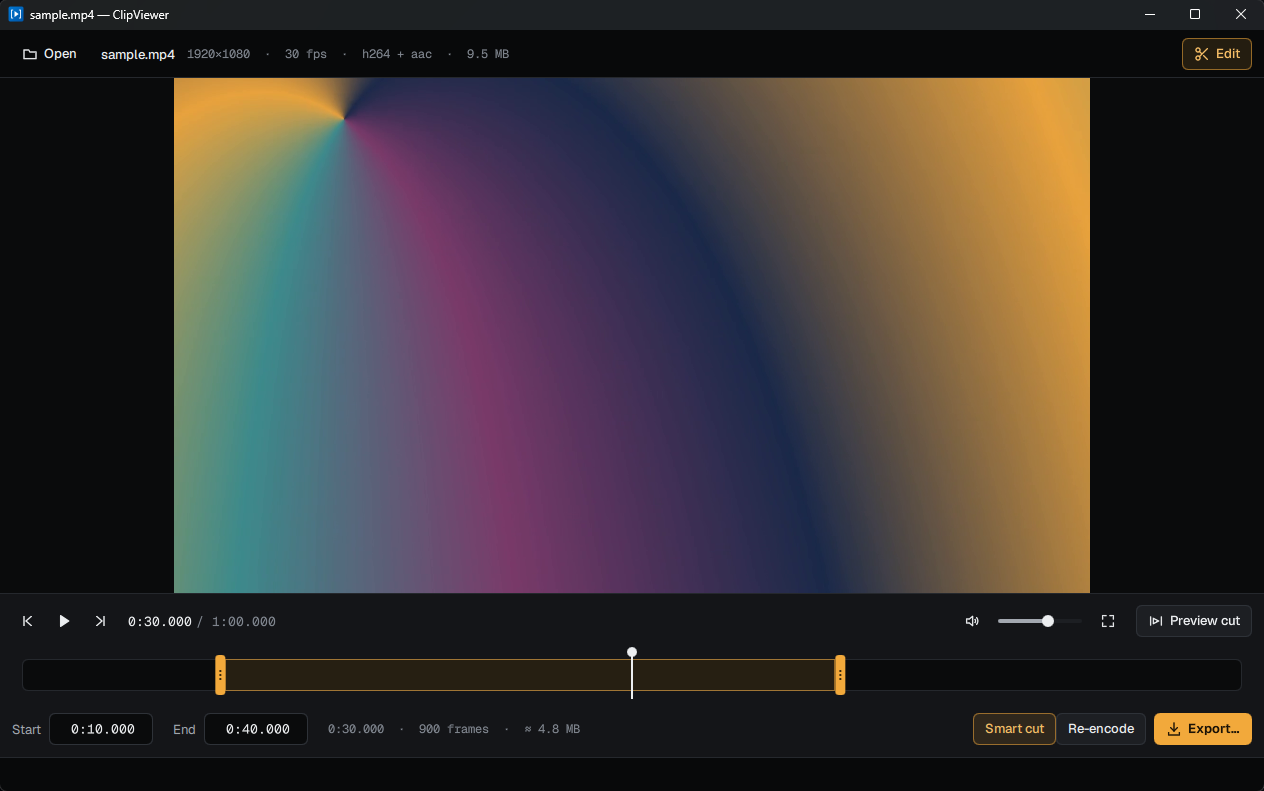
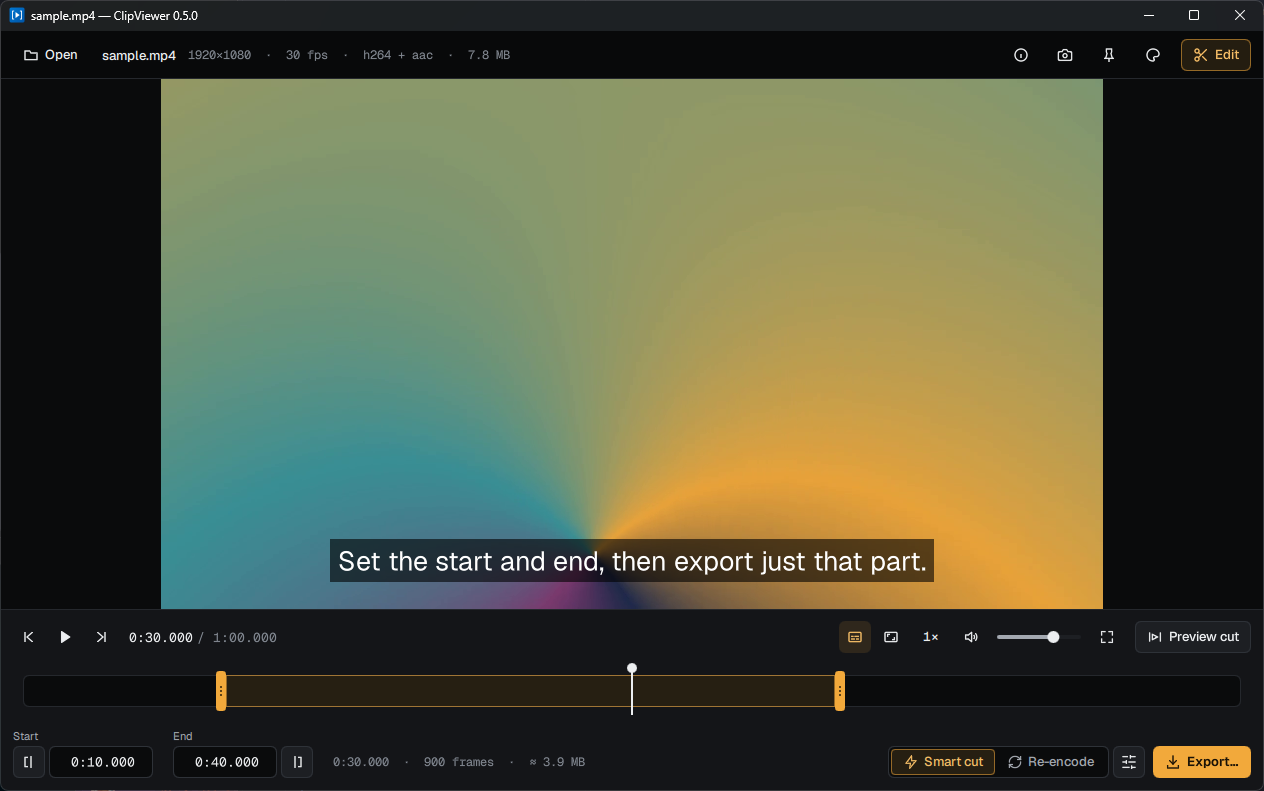
Update the README screenshots and add a hotkeys section

diff --git a/README.md b/README.md
@@ -21,6 +21,39 @@ It's built for Windows, Linux and macOS, but only Windows has been tested.
 > **Note:** Linux and macOS haven't been tested. CI builds the project on Linux and runs the
 > automated tests there, but nobody has run the app on Linux yet. macOS hasn't been built at all.
 
+## Hotkeys
+
+| Key | Action |
+| --- | --- |
+| Space, K | Play / pause |
+| ← / → | Back / forward 5 seconds |
+| J / L | Back / forward 10 seconds |
+| , / . | Back / forward one frame |
+| Home / End | Go to the start / end (the trim points in edit mode) |
+| ↑ / ↓ | Volume up / down |
+| M | Mute |
+| [ / ] | Slower / faster playback |
+| B | Next audio track |
+| V | Next subtitle track |
+| G / H | Subtitles 0.1 s earlier / later |
+| A | Cycle the aspect ratio |
+| Z | Cycle the zoom |
+| R | Rotate 90° |
+| F | Full screen (Esc to leave) |
+| Ctrl+H | Hide the controls |
+| Ctrl+T | Always on top |
+| Ctrl+O | Open a video |
+| Ctrl+S | Save the current frame as a PNG |
+| E | Edit mode on / off |
+
+In edit mode:
+
+| Key | Action |
+| --- | --- |
+| I / O | Set the start / end to the playhead |
+| P | Preview the cut |
+| Ctrl+E | Export |
+
 ## Requirements
 
 - Qt 6.12, with the Qt Multimedia, Qt Shader Tools, Qt Image Formats and Qt TaskTree modules
